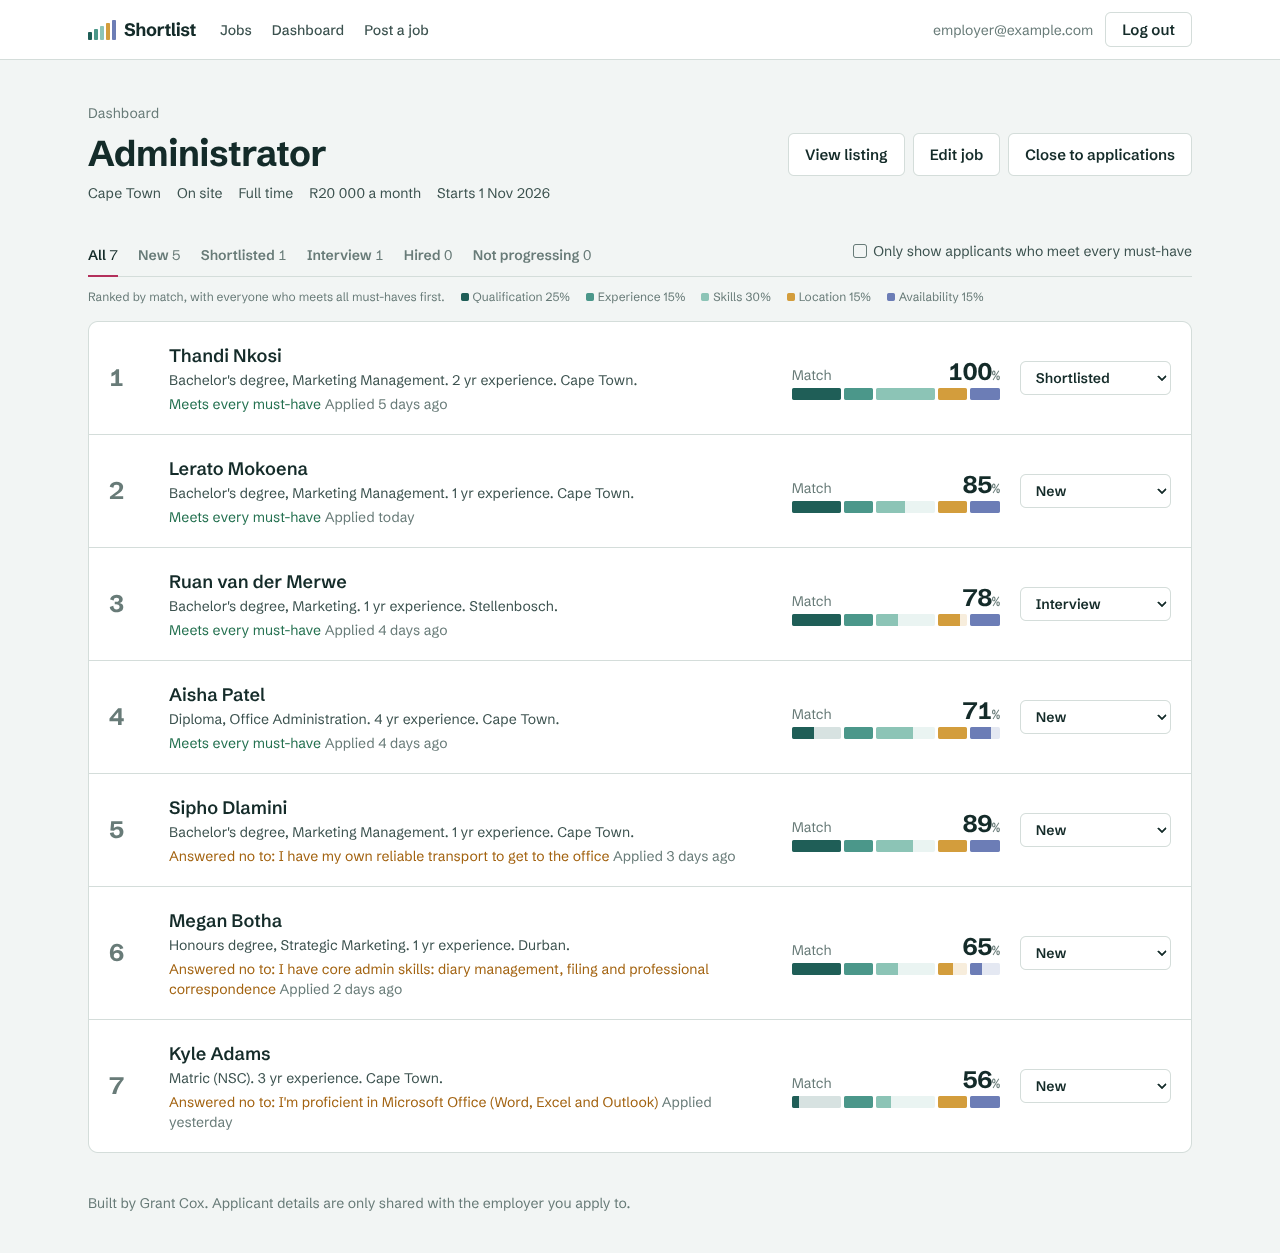
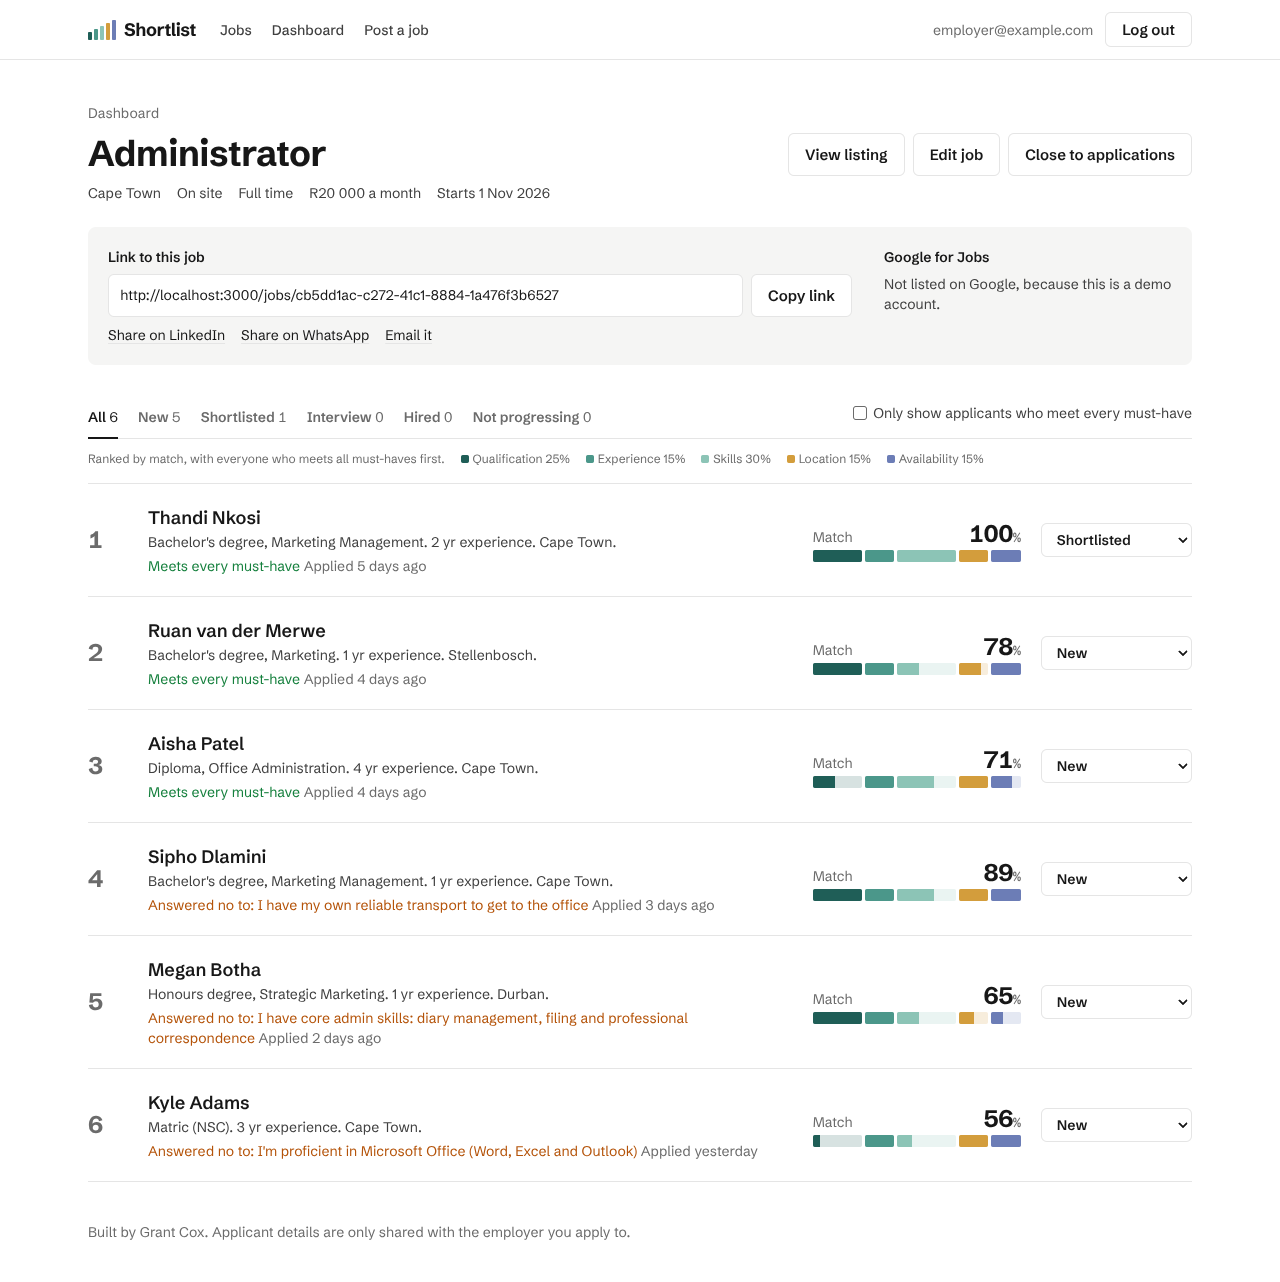
Restyle: white background, rules instead of cards, black buttons
Drop the tinted background and boxed cards. Lists and form sections are
separated by thin rules, side boxes and empty states use a light grey
fill, and buttons are black. The match bar is the only colour on the page.

Claude-Session: https://claude.ai/code/session_01MKyAT5THryioF5nQFdoKVj

diff --git a/src/app/globals.css b/src/app/globals.css
@@ -2,19 +2,20 @@
 @import "@fontsource-variable/schibsted-grotesk";
 
 :root {
-  --bg: #f2f5f4;
+  /* Plain white, near-black text. Colour is reserved for the match score. */
+  --bg: #ffffff;
   --surface: #ffffff;
-  --sunken: #e8eeec;
-  --ink: #142b29;
-  --ink-2: #3c524f;
-  --muted: #687b78;
-  --line: #d4dddA;
-  --accent: #b3305b; /* protea */
-  --accent-hover: #982449;
+  --sunken: #f5f5f4;
+  --ink: #171717;
+  --ink-2: #404040;
+  --muted: #6b6b6b;
+  --line: #e5e5e5;
+  --accent: #171717;
+  --accent-hover: #3f3f3f;
   --accent-ink: #ffffff;
-  --good: #23704f;
-  --warn: #a2620f;
-  --bad: #a3392b;
+  --good: #15803d;
+  --warn: #b45309;
+  --bad: #b91c1c;
 
   /* One colour per matching criterion, used everywhere a score is shown. */
   --fit-qualification: #1f5e57;
@@ -22,29 +23,6 @@
   --fit-skills: #8cc4b6;
   --fit-location: #d39d3c;
   --fit-availability: #6c7db6;
-}
-
-@media (prefers-color-scheme: dark) {
-  :root {
-    --bg: #0f1c1b;
-    --surface: #162725;
-    --sunken: #1d302e;
-    --ink: #e7efed;
-    --ink-2: #bccac7;
-    --muted: #8fa29f;
-    --line: #2c403d;
-    --accent: #e0668e;
-    --accent-hover: #ea86a7;
-    --accent-ink: #1a0910;
-    --good: #6cc39b;
-    --warn: #e2a94f;
-    --bad: #ef8a7a;
-    --fit-qualification: #4fb3a6;
-    --fit-experience: #7bc4b6;
-    --fit-skills: #b4e0d4;
-    --fit-location: #e5b45a;
-    --fit-availability: #95a5dc;
-  }
 }
 
 @theme inline {
@@ -171,11 +149,28 @@ textarea.input {
   text-decoration-color: var(--accent);
 }
 
-.panel {
-  background: var(--surface);
-  border: 1px solid var(--line);
-  border-radius: 10px;
+/* Side boxes and empty states: a light grey background, no border. */
+.box {
+  background: var(--sunken);
+  border-radius: 8px;
 }
+}
+
+/*
+ * Lists and form sections are separated by thin rules, not boxed. These sit
+ * outside the layers on purpose so they override any padding utilities.
+ */
+.list {
+  border-top: 1px solid var(--line);
+  border-bottom: 1px solid var(--line);
+}
+.list > li {
+  padding-left: 0;
+  padding-right: 0;
+}
+.section {
+  border-top: 1px solid var(--line);
+  padding: 1.5rem 0 0;
 }
 
 @media (prefers-reduced-motion: no-preference) {

diff --git a/src/app/jobs/[id]/opengraph-image.tsx b/src/app/jobs/[id]/opengraph-image.tsx
@@ -44,8 +44,8 @@ export default async function Image({ params }: { params: Promise<{ id: string }
           display: "flex",
           flexDirection: "column",
           justifyContent: "space-between",
-          background: "#f2f5f4",
-          color: "#142b29",
+          background: "#ffffff",
+          color: "#171717",
           padding: "72px 80px",
           fontFamily: "Schibsted Grotesk",
         }}
@@ -60,14 +60,14 @@ export default async function Image({ params }: { params: Promise<{ id: string }
           <div style={{ fontSize: title.length > 32 ? 64 : 84, fontWeight: 800, lineHeight: 1.05, letterSpacing: -2 }}>
             {title}
           </div>
-          <div style={{ fontSize: 40, color: "#3c524f", marginTop: 18 }}>{company}</div>
-          <div style={{ display: "flex", gap: 28, fontSize: 30, color: "#3c524f", marginTop: 28 }}>
+          <div style={{ fontSize: 40, color: "#404040", marginTop: 18 }}>{company}</div>
+          <div style={{ display: "flex", gap: 28, fontSize: 30, color: "#404040", marginTop: 28 }}>
             {facts.map((f) => (
               <div key={f}>{f}</div>
             ))}
           </div>
         </div>
-        <div style={{ display: "flex", fontSize: 28, color: "#b3305b", fontWeight: 600 }}>
+        <div style={{ display: "flex", fontSize: 28, color: "#171717", fontWeight: 600 }}>
           See your match score before you apply
         </div>
       </div>

diff --git a/src/app/page.tsx b/src/app/page.tsx
@@ -40,7 +40,7 @@ export default async function Home({ searchParams }: { searchParams: Promise<{ d
       )}
       <section className="grid items-center gap-10 lg:grid-cols-[1.1fr_1fr]">
         <div>
-          <h1 className="max-w-[14ch] text-5xl font-extrabold tracking-[-0.03em] sm:text-6xl">
+          <h1 className="max-w-[16ch] text-4xl font-bold tracking-tight sm:text-5xl">
             Know your score before you apply.
           </h1>
           <p className="mt-5 max-w-[46ch] text-lg text-ink-2">
@@ -66,7 +66,7 @@ export default async function Home({ searchParams }: { searchParams: Promise<{ d
         </div>
 
         {featured && heroMatch && (
-          <div className="panel p-6">
+          <div className="box p-6">
             <p className="text-sm text-muted">
               {me ? "Your best match right now" : `How ${EXAMPLE.description} scores for`}
             </p>
@@ -110,7 +110,7 @@ export default async function Home({ searchParams }: { searchParams: Promise<{ d
               items={jobs.slice(0, 5).map((r) => ({ ...r, match: me ? scoreMatch(jobForMatching(r.job), me) : null }))}
             />
           ) : (
-            <p className="panel p-6 text-ink-2">No jobs posted yet.</p>
+            <p className="box p-6 text-ink-2">No jobs posted yet.</p>
           )}
         </div>
       </section>

diff --git a/src/app/employer/jobs/[id]/page.tsx b/src/app/employer/jobs/[id]/page.tsx
@@ -98,7 +98,7 @@ export default async function ApplicantsPage({
       )}
 
       {!closed && (
-        <section className="panel mt-6 grid gap-x-8 gap-y-4 p-5 md:grid-cols-[1fr_18rem]">
+        <section className="box mt-6 grid gap-x-8 gap-y-4 p-5 md:grid-cols-[1fr_18rem]">
           <ShareJob url={`${siteUrl()}/jobs/${job.id}`} title={job.title} company={employer.companyName} />
           <div>
             <p className="label">Google for Jobs</p>
@@ -143,7 +143,7 @@ export default async function ApplicantsPage({
       </div>
 
       {shown.length === 0 ? (
-        <div className="panel mt-4 p-8 text-center">
+        <div className="box mt-4 p-8 text-center">
           <p className="font-semibold">{all.length === 0 ? "No applications yet." : "Nobody matches this filter."}</p>
           <p className="mt-1 text-ink-2">
             {all.length === 0
@@ -152,7 +152,7 @@ export default async function ApplicantsPage({
           </p>
         </div>
       ) : (
-        <ol className="panel mt-4 divide-y divide-line">
+        <ol className="list mt-4 divide-y divide-line">
           {shown.map((a) => {
             const rank = all.indexOf(a) + 1;
             const c = a.candidate;

diff --git a/src/app/employer/page.tsx b/src/app/employer/page.tsx
@@ -53,7 +53,7 @@ export default async function EmployerHome({ searchParams }: { searchParams: Pro
       )}
 
       {jobs.length === 0 ? (
-        <div className="panel p-8">
+        <div className="box p-8">
           <h2 className="text-xl font-semibold">Post your first job</h2>
           <p className="mt-1 max-w-prose text-ink-2">
             Describe the role, list what you need, and choose what matters most. Candidates on the job board see how well
@@ -66,7 +66,7 @@ export default async function EmployerHome({ searchParams }: { searchParams: Pro
       ) : (
         <section>
           <h2 className="text-xl font-semibold">Your jobs</h2>
-          <ul className="panel mt-3 divide-y divide-line">
+          <ul className="list mt-3 divide-y divide-line">
             {jobs.map(({ job, applicants, newCount, top }) => (
               <li key={job.id} className="relative grid gap-4 p-5 md:grid-cols-[1fr_auto_auto] md:items-center md:gap-8">
                 <div className="min-w-0">

diff --git a/src/app/jobs/[id]/page.tsx b/src/app/jobs/[id]/page.tsx
@@ -85,7 +85,7 @@ export default async function JobPage({ params }: { params: Promise<{ id: string
 
         {match && (
           // On small screens the full breakdown sits below the description, so show the headline score here.
-          <a href="#match" className="panel mt-5 block p-4 lg:hidden">
+          <a href="#match" className="box mt-5 block p-4 lg:hidden">
             <span className="flex items-baseline justify-between">
               <span className="font-semibold">Your match</span>
               <ScoreNumber total={match.total} className="text-2xl" />
@@ -165,7 +165,7 @@ export default async function JobPage({ params }: { params: Promise<{ id: string
       </article>
 
       <aside id="match" className="scroll-mt-4 lg:sticky lg:top-6 lg:self-start">
-        <div className="panel p-5">
+        <div className="box p-5">
           {isOwner ? (
             <>
               <h2 className="font-semibold">This is your listing</h2>

diff --git a/src/app/candidate/page.tsx b/src/app/candidate/page.tsx
@@ -63,14 +63,14 @@ export default async function CandidateHome({ searchParams }: { searchParams: Pr
       <section>
         <h2 className="text-xl font-semibold">My applications</h2>
         {apps.length === 0 ? (
-          <div className="panel mt-3 p-6">
+          <div className="box mt-3 p-6">
             <p className="font-semibold">You haven't applied for anything yet.</p>
             <p className="mt-1 text-ink-2">
               Your best matches are below, or <Link href="/jobs" className="link">browse all jobs</Link>.
             </p>
           </div>
         ) : (
-          <ul className="panel mt-3 divide-y divide-line">
+          <ul className="list mt-3 divide-y divide-line">
             {apps.map(({ application: a, job, companyName }) => {
               const match = scoreMatch(jobForMatching(job), me, a.mustHaveAnswers);
               return (

diff --git a/src/app/candidate/profile/profile-form.tsx b/src/app/candidate/profile/profile-form.tsx
@@ -245,7 +245,7 @@ function CvAutofill({
   }
 
   return (
-    <section className="panel border-l-4 border-l-[var(--fit-qualification)] p-5" aria-labelledby="autofill-heading">
+    <section className="box p-5" aria-labelledby="autofill-heading">
       <h2 id="autofill-heading" className="text-lg font-semibold">
         Start from your CV
       </h2>
@@ -285,7 +285,7 @@ function CvAutofill({
 
 function Section({ title, children }: { title: string; children: React.ReactNode }) {
   return (
-    <fieldset className="panel p-5">
+    <fieldset className="section">
       <legend className="sr-only">{title}</legend>
       <h2 className="mb-4 text-lg font-semibold">{title}</h2>
       {children}

diff --git a/src/app/jobs/[id]/apply/apply-form.tsx b/src/app/jobs/[id]/apply/apply-form.tsx
@@ -19,7 +19,7 @@ export function ApplyForm({
       <input type="hidden" name="jobId" value={jobId} />
 
       {mustHaves.length > 0 && (
-        <fieldset className="panel p-5">
+        <fieldset className="section">
           <legend className="sr-only">Must-haves</legend>
           <h2 className="text-lg font-semibold">Must-haves</h2>
           <p className="mt-1 text-sm text-ink-2">
@@ -54,7 +54,7 @@ export function ApplyForm({
         </fieldset>
       )}
 
-      <div className="panel p-5">
+      <div className="section">
         <label className="label text-lg" htmlFor="coverNote">
           Note to the employer
         </label>

diff --git a/src/app/employer/profile/company-form.tsx b/src/app/employer/profile/company-form.tsx
@@ -9,7 +9,7 @@ import type { Employer } from "@/db/schema";
 export function CompanyForm({ employer }: { employer: Employer }) {
   const [state, action] = useActionState(saveEmployerProfile, undefined);
   return (
-    <ActionForm action={action} className="panel mt-6 space-y-4 p-5">
+    <ActionForm action={action} className="mt-8 space-y-4">
       <div>
         <label className="label" htmlFor="companyName">Company or organisation</label>
         <input className="input" id="companyName" name="companyName" defaultValue={employer.companyName} required />

diff --git a/src/app/employer/jobs/[id]/applicants/[appId]/page.tsx b/src/app/employer/jobs/[id]/applicants/[appId]/page.tsx
@@ -142,10 +142,10 @@ export default async function ApplicantPage({ params }: { params: Promise<{ id: 
         </div>
 
         <aside className="space-y-4 lg:sticky lg:top-6 lg:self-start">
-          <div className="panel p-5">
+          <div className="box p-5">
             <FitBreakdown match={match} />
           </div>
-          <div className="panel p-5">
+          <div className="box p-5">
             <NotesForm applicationId={a.id} notes={a.employerNotes} />
           </div>
         </aside>

diff --git a/src/app/login/login-form.tsx b/src/app/login/login-form.tsx
@@ -7,7 +7,7 @@ import { ActionForm, FormError, SubmitButton } from "@/components/form-bits";
 export function LoginForm({ next }: { next?: string }) {
   const [state, action] = useActionState(login, undefined);
   return (
-    <ActionForm action={action} className="panel mt-6 space-y-4 p-5">
+    <ActionForm action={action} className="mt-8 space-y-4">
       <input type="hidden" name="next" value={next ?? ""} />
       <div>
         <label className="label" htmlFor="email">Email</label>
